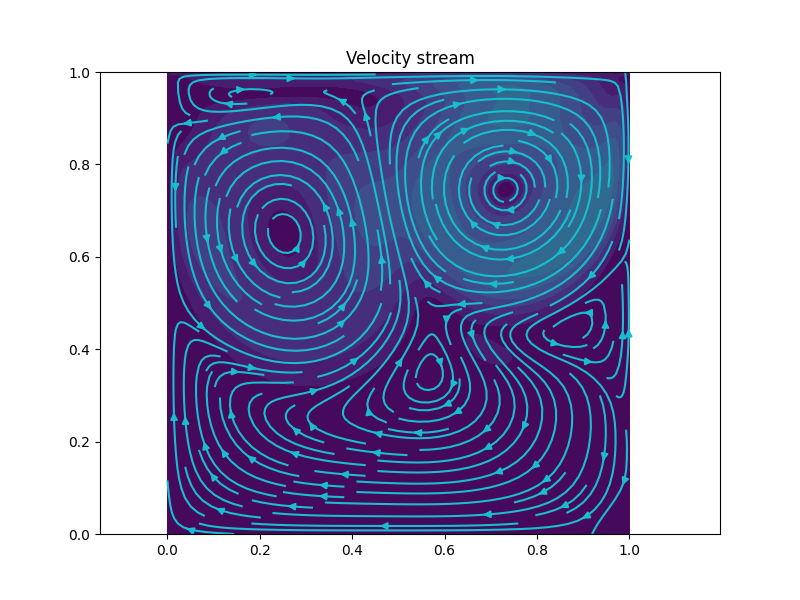
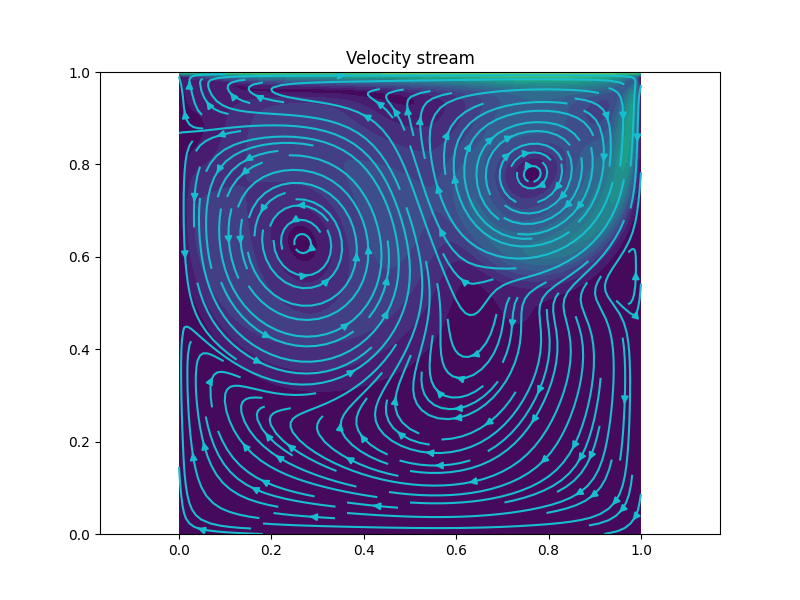
changed-example-run-to-120-sec

Changed region(s): [[0.1875, 0.12, 0.8125, 0.93]]

diff --git a/src/main.py b/src/main.py
@@ -9,9 +9,13 @@ import numpy as np
 def main() -> None:
 
     anim_config = cfg.AnimationConfig(
-        export_dir="./sim_out/constant_drive"
+        export_dir="./sim_out/periodic_drive"
     )
-    sim_config = cfg.SimulationConfig()
+    sim_config = cfg.SimulationConfig(
+        simulation_time_in_sec=120.0,
+        lid_velocity_fcn=lambda t: np.sin(t/3),
+        reynolds_number=2000,
+    )
     sim_grid = gs.Grid(sim_config)
     anim_renderer = anim.ConcentrationRenderer(anim_config, sim_config, sim_grid)
     solver = sv.Solver(sim_config, sim_grid)

diff --git a/Readme.md b/Readme.md
@@ -5,7 +5,7 @@ Implementation of a lid driven cavity flow simulator using regular finite differ
 ## Example: Periodic drive
 The following image shows the simulation results for the following non-default configuration parameters:
 
-- Simulation time:  $160\ sec$
+- Simulation time:  $120\ sec$
 - Reynolds number: $2000$
 - Lid velocity   : $v_{top}(t)=sin(t/3)$
 
